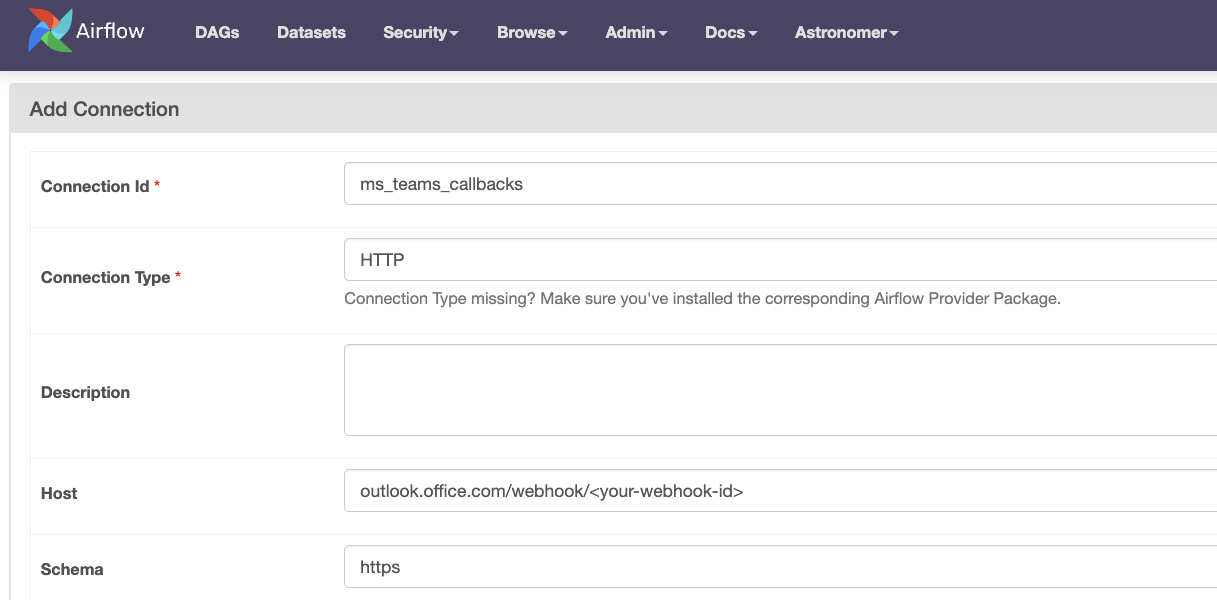
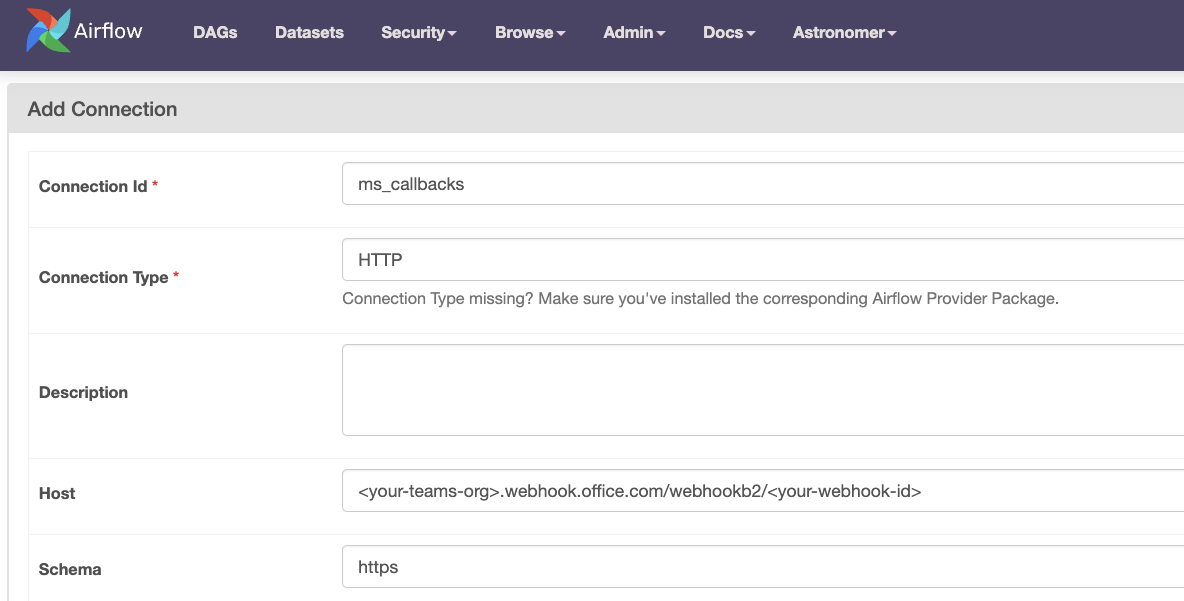
change screenshots add test button warning

diff --git a/learn/example-ms-teams-callback.md b/learn/example-ms-teams-callback.md
@@ -36,11 +36,11 @@ Follow these steps to receive notifications in MS Teams for failed tasks in an e
 
 2. Create a [Microsoft Teams Incoming Webhook](https://learn.microsoft.com/en-us/microsoftteams/platform/webhooks-and-connectors/how-to/add-incoming-webhook?tabs=dotnet#create-incoming-webhooks-1) for the channel for which you want to receive notifications. Copy and save the webhook URL.
 
-3. In the Airflow UI, create an Airflow connection by clicking on **Admin** and then **Connections**. Create a new connection with the following parameters:
+3. In the Airflow UI, create an Airflow connection by clicking on **Admin** and then **Connections**. Create a new connection with the following parameters. Note that the `Test` button does not work for this connection.
 
     - **Connection Id**: `ms_teams_callbacks`
     - **Connection Type**: `HTTP`
-    - **Host**: `outlook.office.com/webhook/<your-webhook-id>`
+    - **Host**: `<your-organization>.office.com/webhook/<your-webhook-id>`
     - **Schema**: `https`
 
     ![Connection](/img/examples/example-ms-teams-callback-connection.png)
